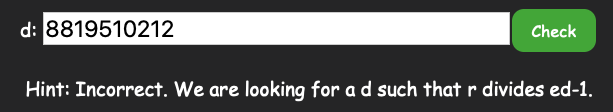
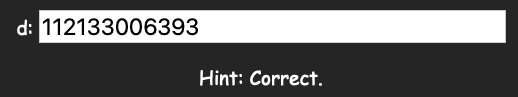
insert figures, add instructions

Changed region(s): [[0.0309, 0.0619, 0.9884, 0.4639], [0.0309, 0.7113, 0.9884, 0.9278]]

diff --git a/README.md b/README.md
@@ -35,13 +35,17 @@ Calculate the numbers with provided hint, input in the text box, and click [Chec
 	<a href="https://crypto-learning-sys.herokuapp.com" class="image"><img src="images/instruction9.png" alt="" /></a><br/>
 8. Once you finished the encryption section with correct answers, you are eligible to go to the next section: Decryption Section
 <a href="https://crypto-learning-sys.herokuapp.com" class="image"><img src="images/instruction10.png" alt="" /></a><br/>
-9. Start **Decryption**!
-
+9. Start **Decryption**! <br/>
+Calculate the numbers with provided hint, input in the text box, and click [Check] <br/>
 <a href="https://crypto-learning-sys.herokuapp.com" class="image"><img src="images/instruction12.png" alt="" /></a><br/>
-
-<a href="https://crypto-learning-sys.herokuapp.com" class="image"><img src="images/instruction13.png" alt="" /></a><br/>
-
+- If your calculated result is incorrect, the following Hint will jump out
+	<a href="https://crypto-learning-sys.herokuapp.com" class="image"><img src="images/error3.png" alt="" /></a><br/>
+	- Otherwise, you will see **Correct**
+	<a href="https://crypto-learning-sys.herokuapp.com" class="image"><img src="images/instruction13.png" alt="" /></a><br/>
+10. Once you finished these two, you will see a message: "You will find out m’ is the same as your inputted message m!"<br/>
+**Now you're done! 😊** 
 <a href="https://crypto-learning-sys.herokuapp.com" class="image"><img src="images/instruction14.png" alt="" /></a><br/>
+
 
 ### Contributing
 
